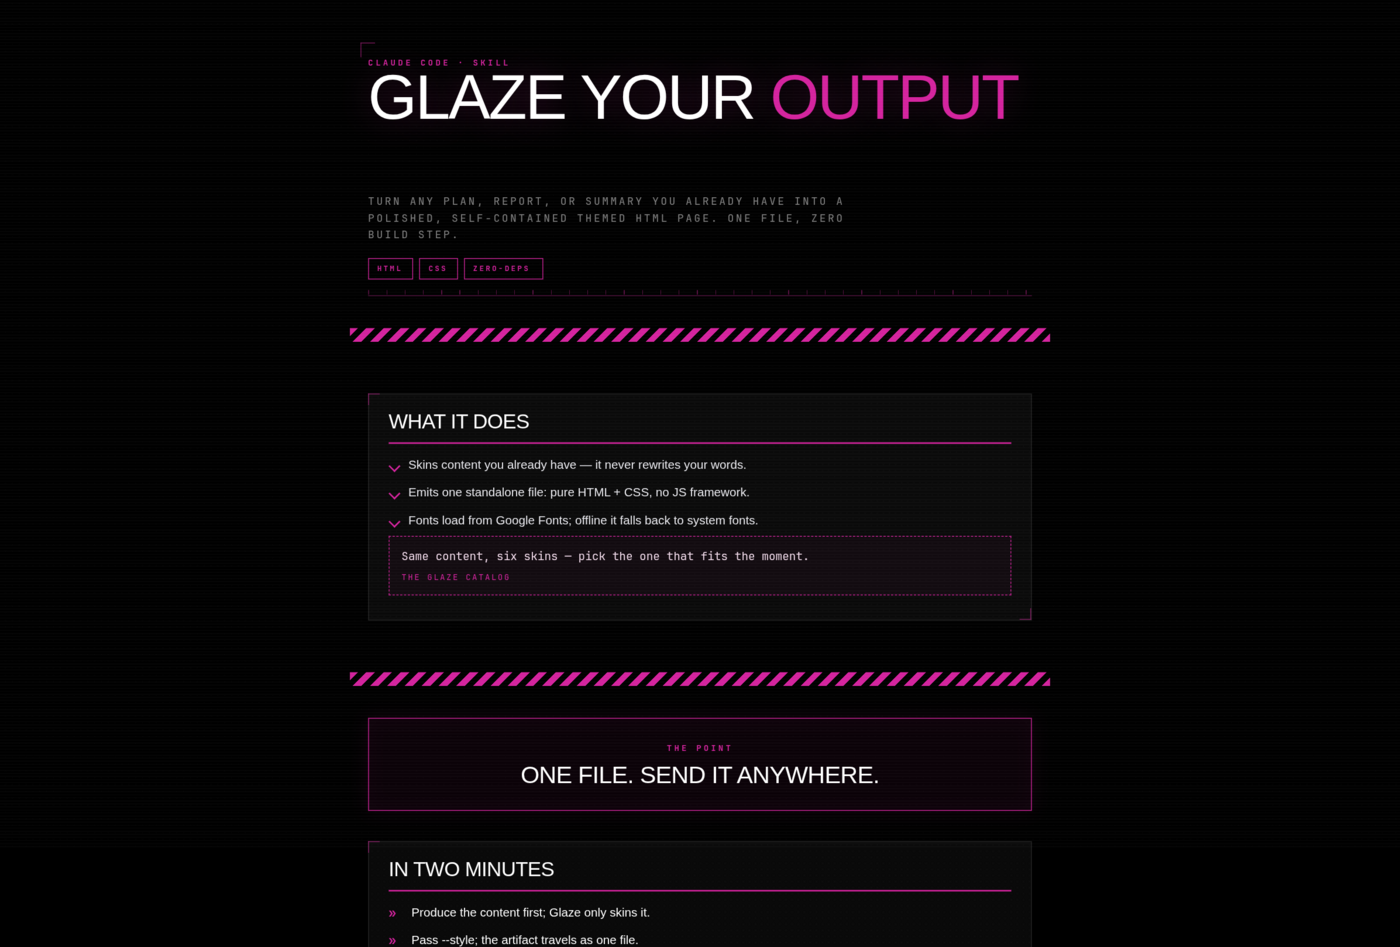
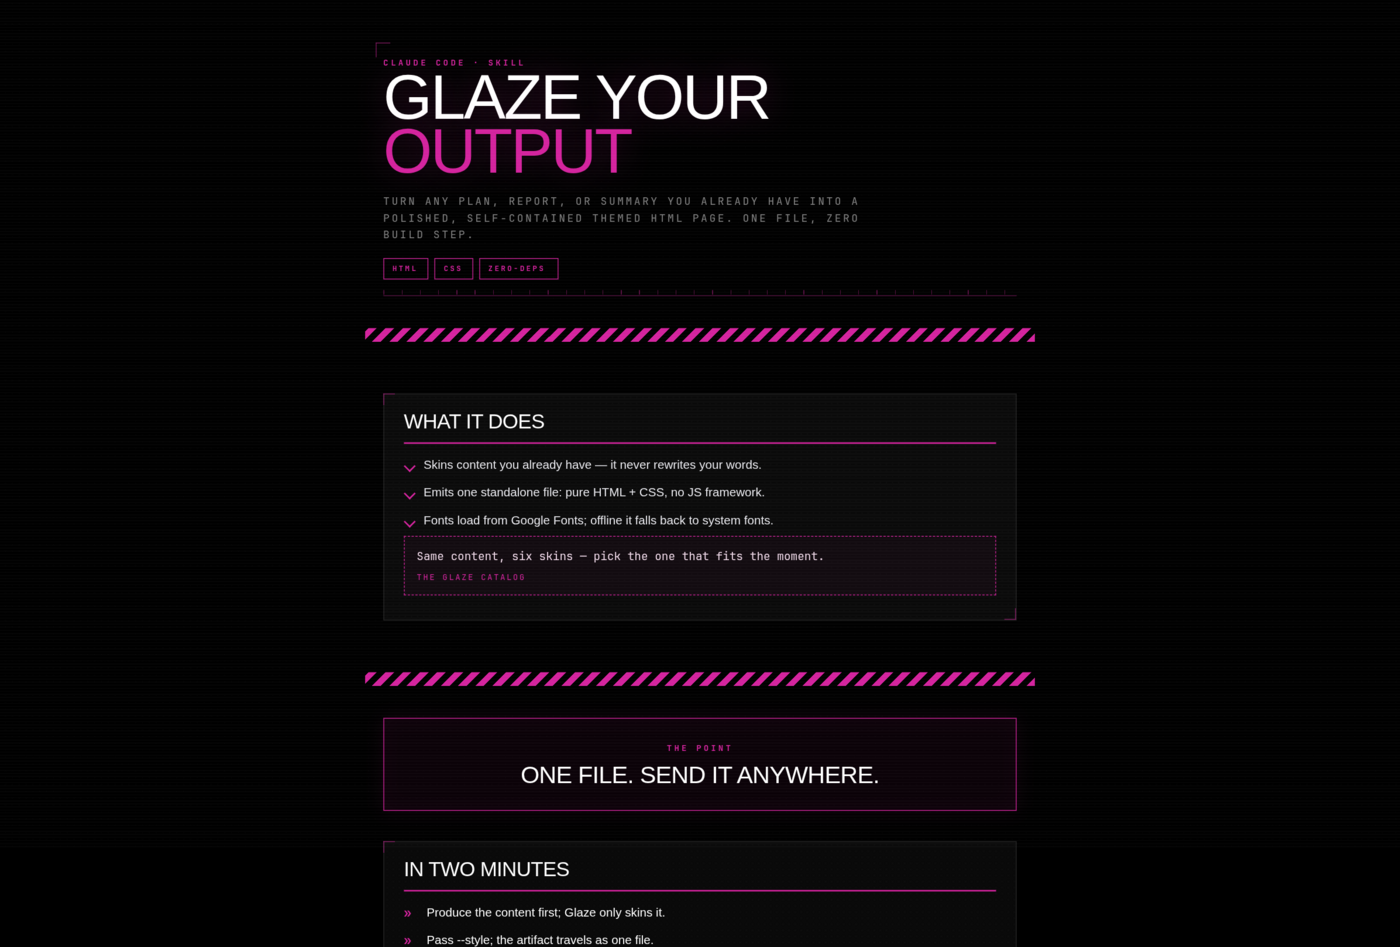
refactor(neonops): reduced-motion guard + normalize to base width
Finish PR review polish:
- Add @user (prefers-reduced-motion: reduce) to freeze the hazard-stripe march
  and footer cursor blink (both decorative — safe to disable).
- Drop the .glaze{max-width:920px} override so neonops uses the base 880px like
  every sibling theme (removes the outlier the reviewer flagged).
- Refresh assets/themes/neonops.png at the normalized width (canonical demo).

claudinho: gerado com Claude Code

diff --git a/skills/Glaze/Themes/neonops.css b/skills/Glaze/Themes/neonops.css
@@ -15,8 +15,6 @@ body::after{content:"";position:fixed;inset:0;z-index:50;pointer-events:none;
 body::before{content:"";position:fixed;inset:0;z-index:0;pointer-events:none;opacity:.5;
   background:radial-gradient(circle,rgba(255,255,255,.025) 1px,transparent 1px) 0 0/9px 9px}
 
-.glaze{max-width:920px}
-
 /* HEADER — corner bracket + tick-mark ruler */
 .glaze-head{position:relative;padding:18px 0 22px}
 .glaze-head::before{content:"";position:absolute;top:0;left:-10px;width:18px;height:18px;
@@ -92,4 +90,9 @@ hr.rule{height:18px;margin:42px -24px;
   hr.rule{margin:30px -16px}
   .title{font-size:clamp(2.2rem,12vw,3rem)}
   .glaze-foot{flex-direction:column;gap:10px;align-items:flex-start}
+}
+/* respect reduced-motion: freeze the hazard-stripe march + footer cursor blink
+   (both are decorative; nothing here is load-bearing, so disabling is safe) */
+@media (prefers-reduced-motion:reduce){
+  hr.rule,.glaze-foot::after{animation:none}
 }